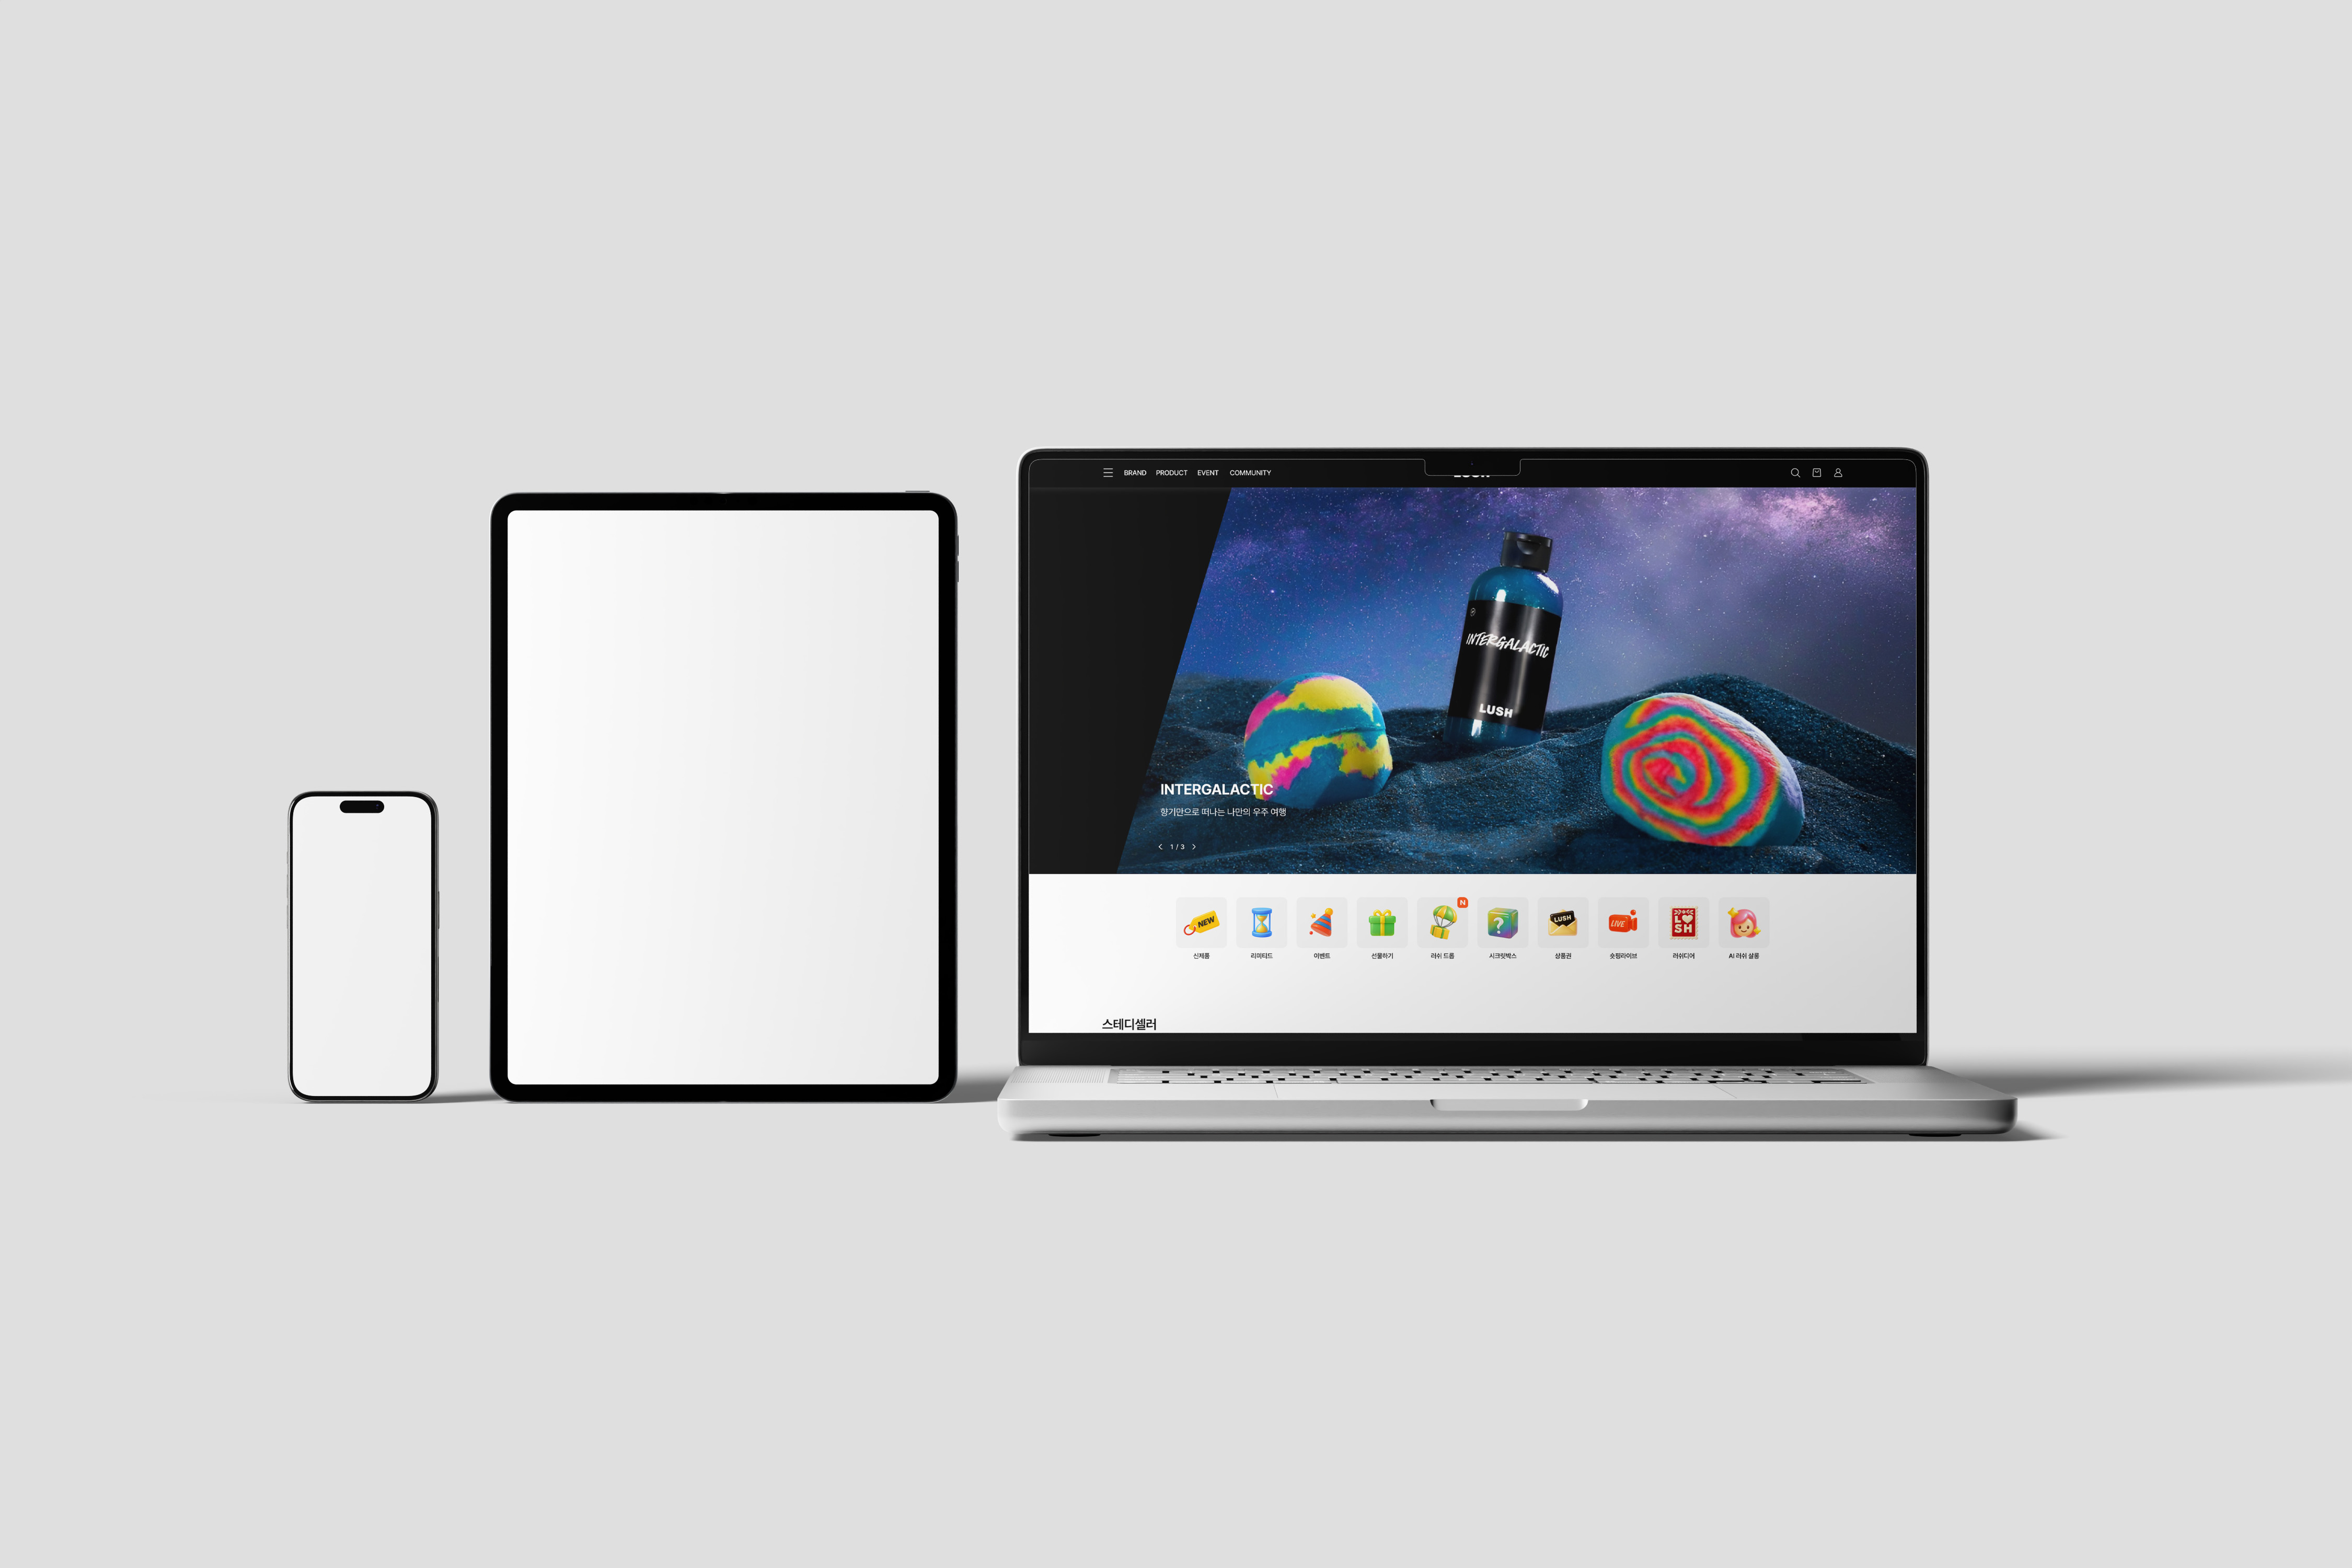
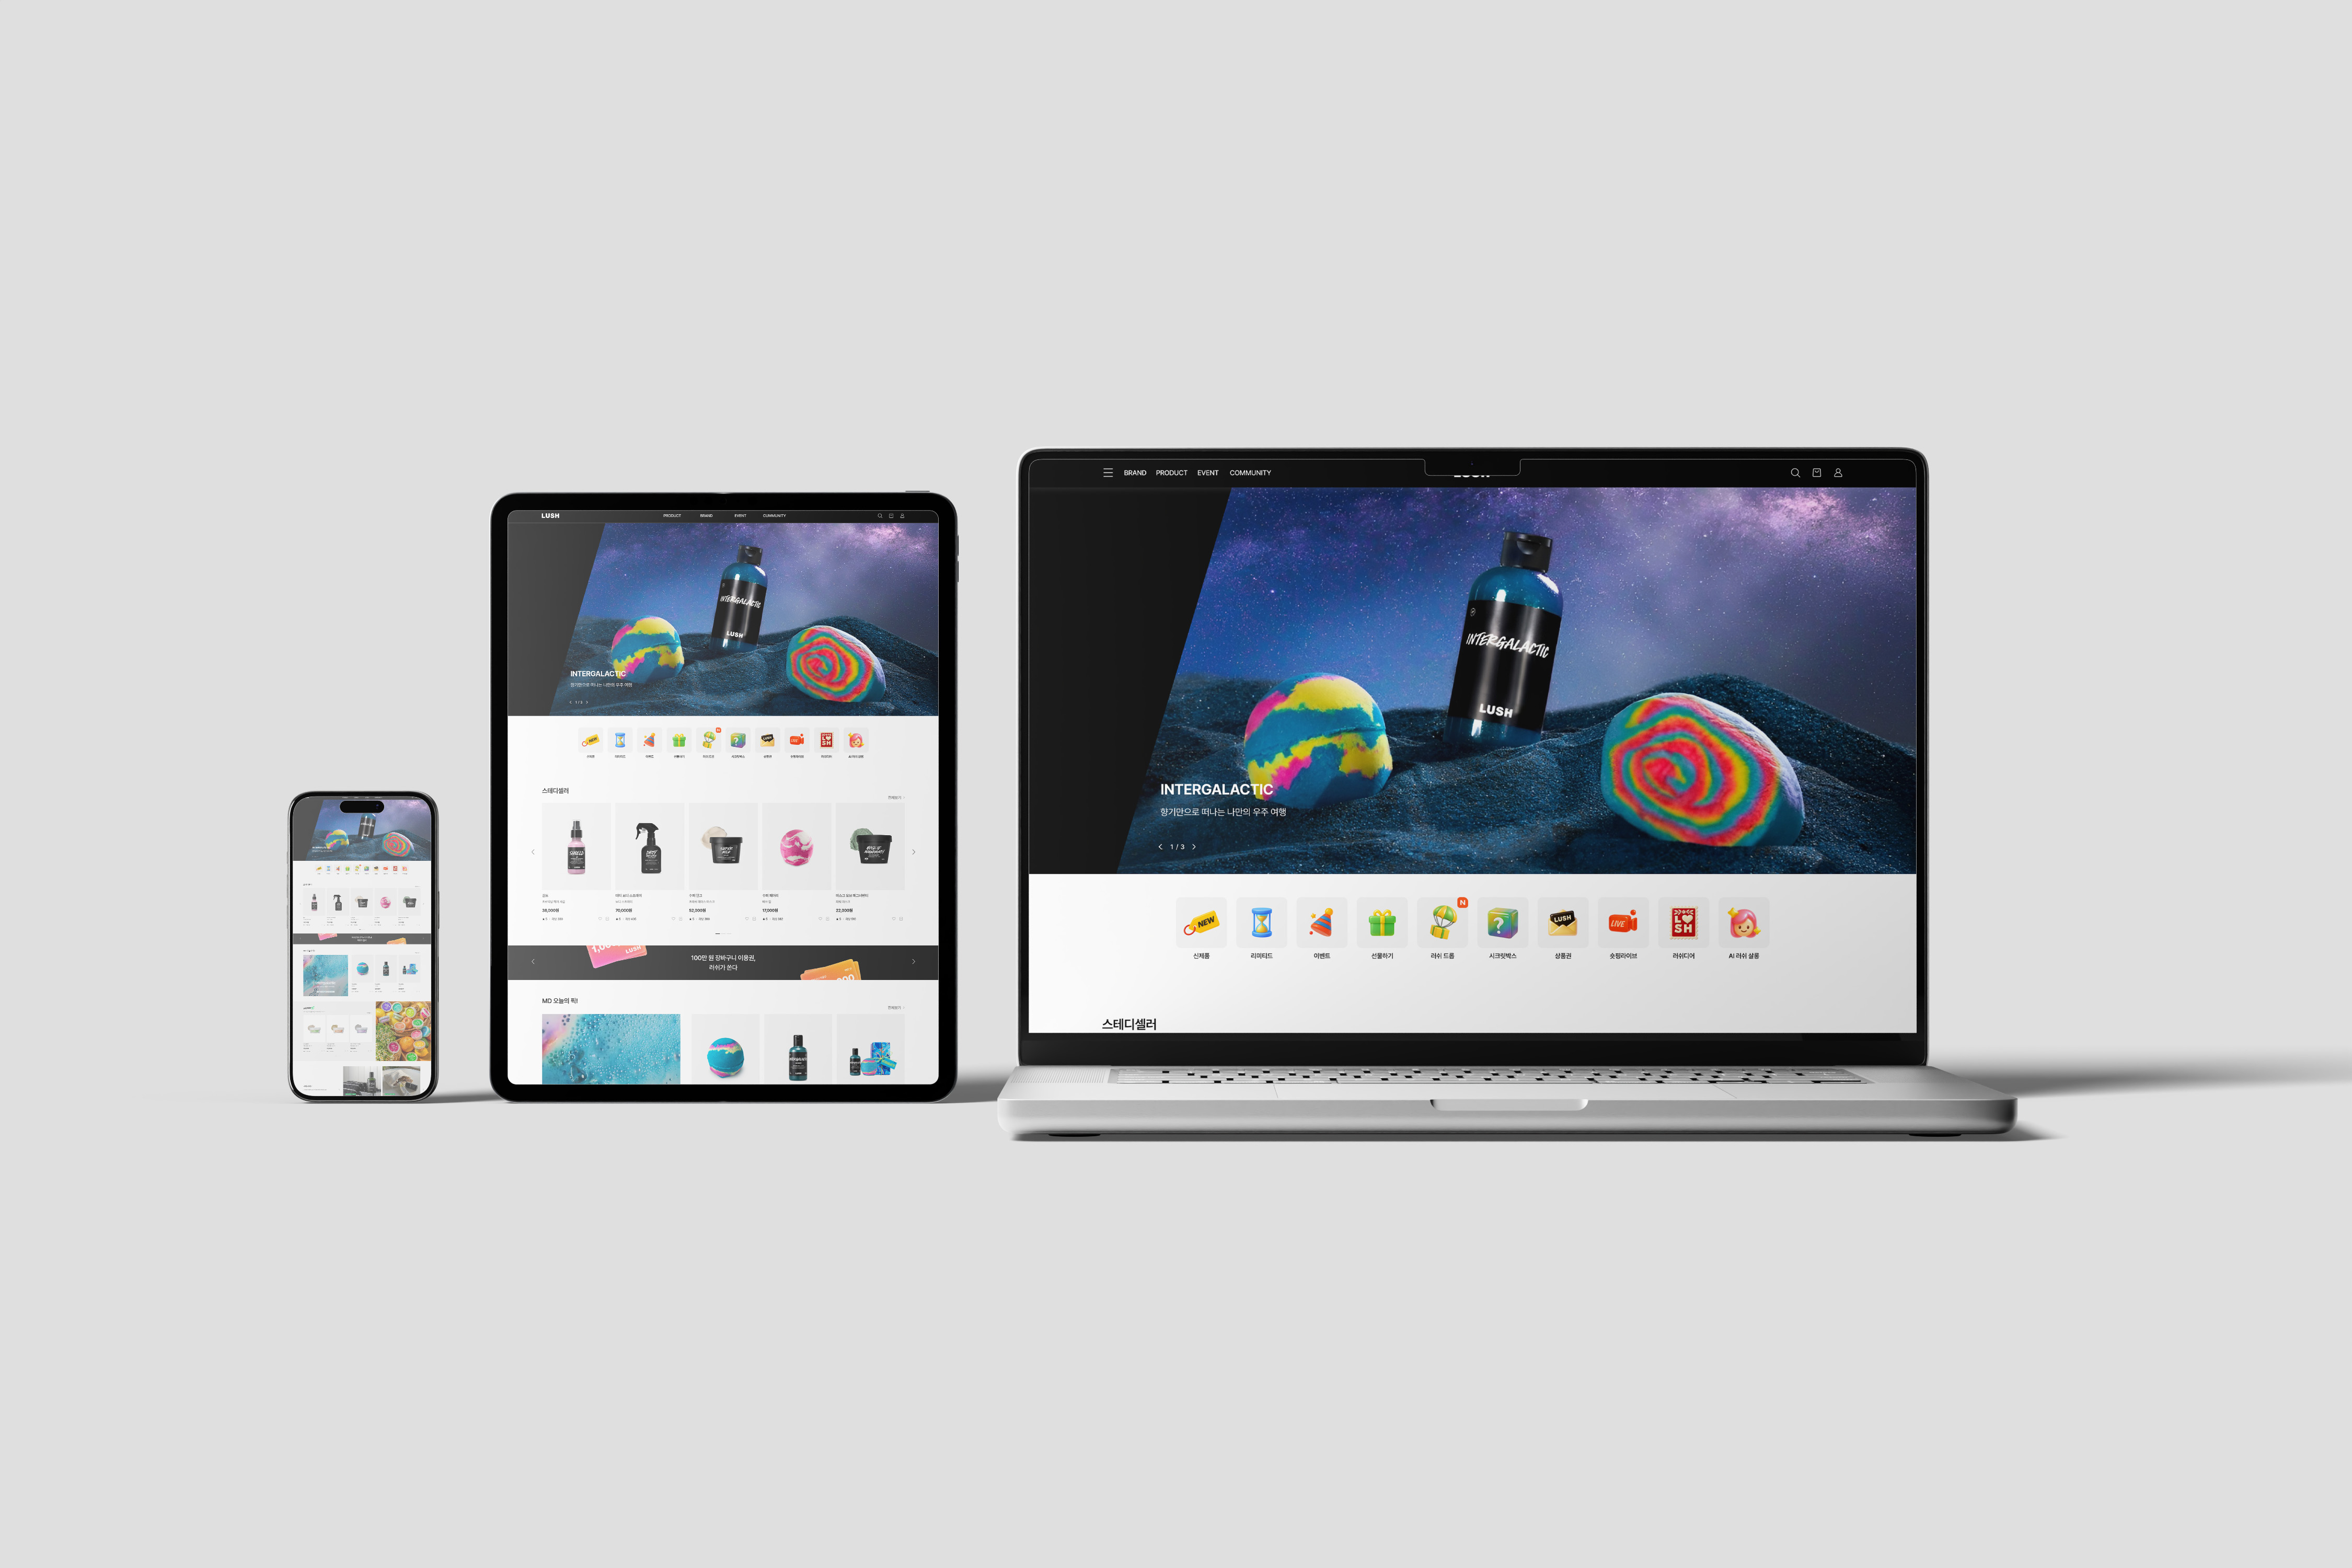
0427 버튼 수정

diff --git a/styles/index.css b/styles/index.css
@@ -205,14 +205,34 @@ body {
 }
 #wrap main .web_p_wrap .web_p_contents .web_project .web_text .web_link {display: flex; gap: 12px; align-items: center;}
 #wrap main .web_p_wrap .web_p_contents .web_project .web_text .web_link > a {border: 1px solid #bbb; transition: 0.3s; }
-#wrap main .web_p_wrap .web_p_contents .web_project .web_text .web_link .proposal {
-    padding: 15px 25px; border-radius: 30px; font-size: 0.94rem;
+/* ---------------------------------------------------------------------------------------공통 hover */
+#wrap main .web_p_wrap .web_p_contents .web_project .web_text .web_link .prototype {
+    border-radius: 50%; position: relative;
 }
-#wrap main .web_p_wrap .web_p_contents .web_project .web_text .web_link .proposal:hover {
-    border:1px solid #000; background: #222; color: #fff;
-}
-#wrap main .web_p_wrap .web_p_contents .web_project .web_text .web_link .prototype {border-radius: 50%;}
 #wrap main .web_p_wrap .web_p_contents .web_project .web_text .web_link .prototype:hover {border: 1px solid #000;}
+/* ---------------------------------------------------------------------------------------개별 hover */
+
+#wrap main .web_p_wrap .web_p_contents .web_project .web_text .web_link .proposal::after {/* 기획서 */
+    content: '기획서';
+    position: absolute; left: 50%; transform: translateX(-50%); bottom: -30px;
+    white-space: nowrap; font-size: 0.88rem; color: #222;
+    transition: 0.3s; opacity: 0;
+}
+#wrap main .web_p_wrap .web_p_contents .web_project .web_text .web_link .proposal:hover::after {opacity: 1;}
+#wrap main .web_p_wrap .web_p_contents .web_project .web_text .web_link .figma::after {/* 피그마 */
+    content: '피그마 프로토타입';
+    position: absolute; left: 50%; transform: translateX(-50%); bottom: -30px;
+    white-space: nowrap; font-size: 0.88rem; color: #222;
+    transition: 0.3s; opacity: 0;
+}
+#wrap main .web_p_wrap .web_p_contents .web_project .web_text .web_link .figma:hover::after {opacity: 1;}
+#wrap main .web_p_wrap .web_p_contents .web_project .web_text .web_link .github::after {/* 깃허브 */
+    content: '깃허브 프로토타입';
+    position: absolute; left: 50%; transform: translateX(-50%); bottom: -30px;
+    white-space: nowrap; font-size: 0.88rem; color: #222;
+    transition: 0.3s; opacity: 0;
+}
+#wrap main .web_p_wrap .web_p_contents .web_project .web_text .web_link .github:hover::after {opacity: 1;}
 #wrap main .web_p_wrap .web_p_contents .web_project .web_text .web_link .prototype img {width: 100%; display: block;}
 /* =========================================================== 4. 기타 작업물 */
 #wrap main .works_wrap {position: relative;}/* 세로선 기준(부모) */

diff --git a/index.html b/index.html
@@ -172,9 +172,10 @@ The similarity to the actual commercial site is purely for design practice.
                             </div>
                             <!-- 웹 프로젝트 링크 -->
                             <div class="web_link">
-                                <a href="https://www.figma.com/proto/D4VA6lON0JPV7L0oputC2N/%EB%89%B4%EB%B0%9C%EB%9E%80%EC%8A%A4-%ED%82%A4%EC%A6%88-%EA%B8%B0%ED%9A%8D%EC%84%9C?node-id=2-2&viewport=249%2C49%2C0.07&t=55r3ECZIY2MF2Sxw-1&scaling=scale-down-width&content-scaling=fixed&page-id=0%3A1" target="_blank" class="proposal">기획서</a>
-                                <a href="https://www.figma.com/proto/0CTsitR6Td34dP36IZl3YX/%EB%89%B4%EB%B0%9C%EB%9E%80%EC%8A%A4-%ED%82%A4%EC%A6%88-%EB%A6%AC%EB%94%94%EC%9E%90%EC%9D%B8?node-id=178-75&viewport=-750%2C110%2C0.11&t=YWR0BsMn4GA2mV8n-1&scaling=scale-down-width&content-scaling=fixed&starting-point-node-id=653%3A187&page-id=7%3A9" target="_blank" class="prototype"><img src="./images/figma.svg" alt=""></a>
-                                <a href="https://mini-mum2.github.io/portfolio-nb-kids/" target="_blank" class="prototype"><img src="./images/github.svg" alt=""></a>
+                                <a href="https://www.figma.com/proto/D4VA6lON0JPV7L0oputC2N/%EB%89%B4%EB%B0%9C%EB%9E%80%EC%8A%A4-%ED%82%A4%EC%A6%88-%EA%B8%B0%ED%9A%8D%EC%84%9C?node-id=2-2&viewport=249%2C49%2C0.07&t=55r3ECZIY2MF2Sxw-1&scaling=scale-down-width&content-scaling=fixed&page-id=0%3A1" target="_blank" class="prototype proposal"><img src="./images/proposal.svg" alt=""></a>
+                                <!-- <a href="" target="_blank" class="proposal">기획서</a> -->
+                                <a href="https://www.figma.com/proto/0CTsitR6Td34dP36IZl3YX/%EB%89%B4%EB%B0%9C%EB%9E%80%EC%8A%A4-%ED%82%A4%EC%A6%88-%EB%A6%AC%EB%94%94%EC%9E%90%EC%9D%B8?node-id=178-75&viewport=-750%2C110%2C0.11&t=YWR0BsMn4GA2mV8n-1&scaling=scale-down-width&content-scaling=fixed&starting-point-node-id=653%3A187&page-id=7%3A9" target="_blank" class="prototype figma"><img src="./images/figma.svg" alt=""></a>
+                                <a href="https://mini-mum2.github.io/portfolio-nb-kids/" target="_blank" class="prototype github"><img src="./images/github.svg" alt=""></a>
                             </div>
                         </div>
                     </div>
@@ -206,9 +207,9 @@ The similarity to the actual commercial site is purely for design practice.
                             </div>
                             <!-- 웹 프로젝트 링크 -->
                             <div class="web_link">
-                                <a href="#" target="_blank" class="proposal">기획서</a>
-                                <a href="#" target="_blank" class="prototype"><img src="./images/figma.svg" alt=""></a>
-                                <a href="#" target="_blank" class="prototype"><img src="./images/github.svg" alt=""></a>
+                                <a href="javascript:void(0)" target="_blank" class="prototype proposal"><img src="./images/proposal.svg" alt=""></a>
+                                <a href="javascript:void(0)" target="_blank" class="prototype figma"><img src="./images/figma.svg" alt=""></a>
+                                <a href="javascript:void(0)" target="_blank" class="prototype github"><img src="./images/github.svg" alt=""></a>
                             </div>
                         </div>
                     </div>
@@ -225,7 +226,7 @@ The similarity to the actual commercial site is purely for design practice.
                     <div class="grap_contents">
                         <!-- 그래픽 디자인(1) -->
                         <div class="grap_project project1">
-                            <a href="#" class="mockup">
+                            <a href="javascript:void(0)" class="mockup">
                                 <img src="./images/works/graphic_01.jpg" alt="">
                                 <div class="hover_box">
                                     <p class="hover_title">3단 리플렛</p>
@@ -235,7 +236,7 @@ The similarity to the actual commercial site is purely for design practice.
                         </div>
                         <!-- 그래픽 디자인(2) -->
                         <div class="grap_project project2">
-                            <a href="#" class="mockup">
+                            <a href="javascript:void(0)" class="mockup">
                                 <img src="./images/works/graphic_02.jpg" alt="">
                                 <div class="hover_box">
                                     <p class="hover_title">포스터</p>
@@ -245,7 +246,7 @@ The similarity to the actual commercial site is purely for design practice.
                         </div>
                         <!-- 그래픽 디자인(3) -->
                         <div class="grap_project project3">
-                            <a href="#" class="mockup">
+                            <a href="javascript:void(0)" class="mockup">
                                 <img src="./images/works/graphic_03.jpg" alt="">
                                 <div class="hover_box">
                                     <p class="hover_title">상세페이지</p>
@@ -264,7 +265,7 @@ The similarity to the actual commercial site is purely for design practice.
                     <div class="video_contents">
                         <!-- 영상 디자인(1) -->
                         <div class="video_project project1">
-                            <a href="#" class="mockup">
+                            <a href="javascript:void(0)" class="mockup">
                                 <img src="./images/works/video_01.jpg" alt="">
                                 <div class="play_icon"><img src="./images/play_icon.png" alt=""></div>
                                 <div class="hover_box">
@@ -275,7 +276,7 @@ The similarity to the actual commercial site is purely for design practice.
                         </div>
                         <!-- 영상 디자인(2) -->
                         <div class="video_project project2">
-                            <a href="#" class="mockup">
+                            <a href="javascript:void(0)" class="mockup">
                                 <img src="./images/works/video_02.jpg" alt="">
                                 <div class="play_icon"><img src="./images/play_icon.png" alt=""></div>
                                 <div class="hover_box">
@@ -286,7 +287,7 @@ The similarity to the actual commercial site is purely for design practice.
                         </div>
                         <!-- 영상 디자인(3) -->
                         <div class="video_project project3">
-                            <a href="#" class="mockup">
+                            <a href="javascript:void(0)" class="mockup">
                                 <img src="./images/works/video_03.jpg" alt="">
                                 <div class="play_icon"><img src="./images/play_icon.png" alt=""></div>
                                 <div class="hover_box">